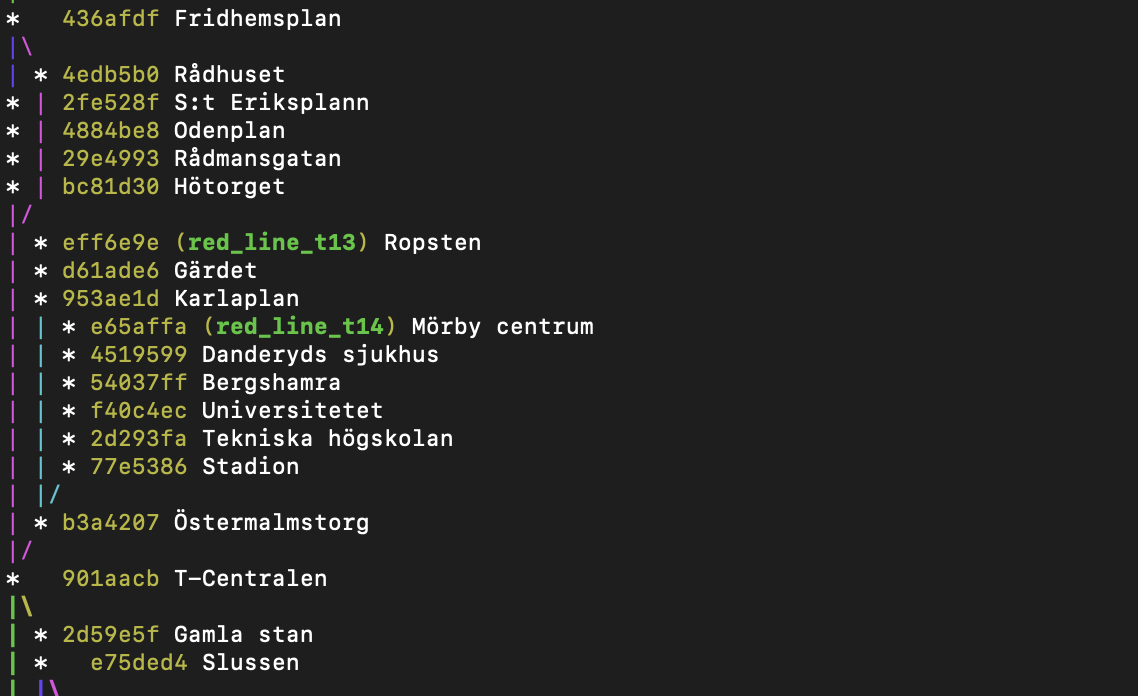
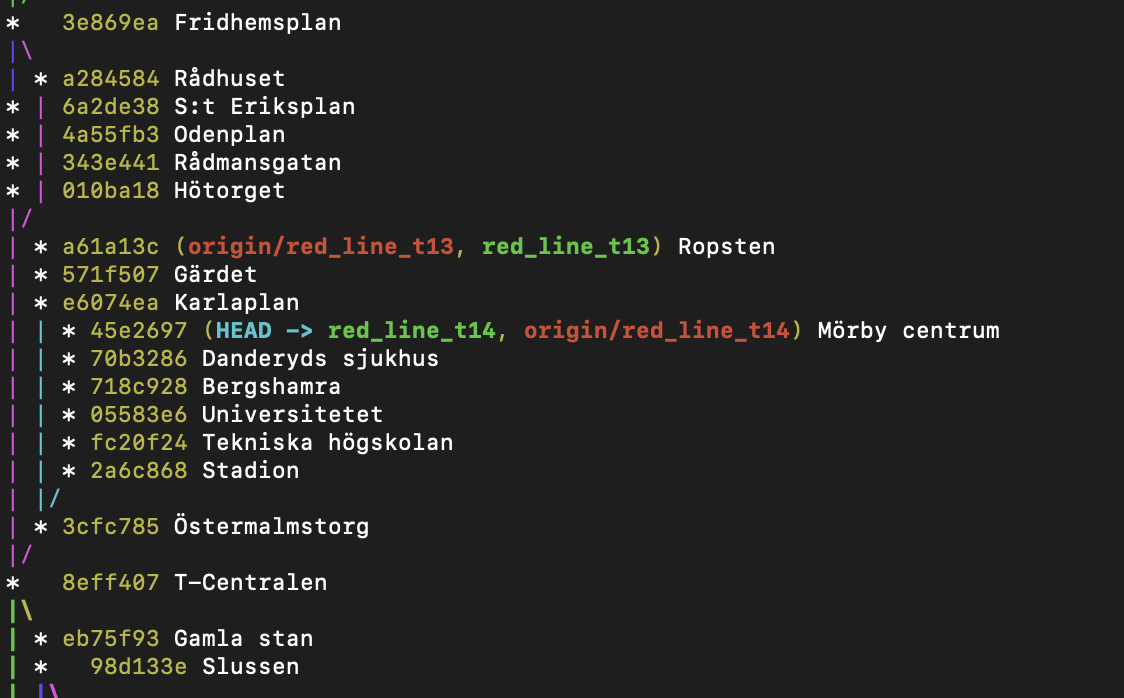
Fix typo on station name and readme.

diff --git a/README.md b/README.md
@@ -11,6 +11,6 @@ You can also view the git tree directly in Github in the [Network view](https://
 ## Shell script usage
 To rebuild the git tree run:
 ```
-./build-git-tree-sh
+./build-git-tree.sh
 ```
 Runing this script will remove all git branches except the main branch, and then build the subway map git tree from scratch.
